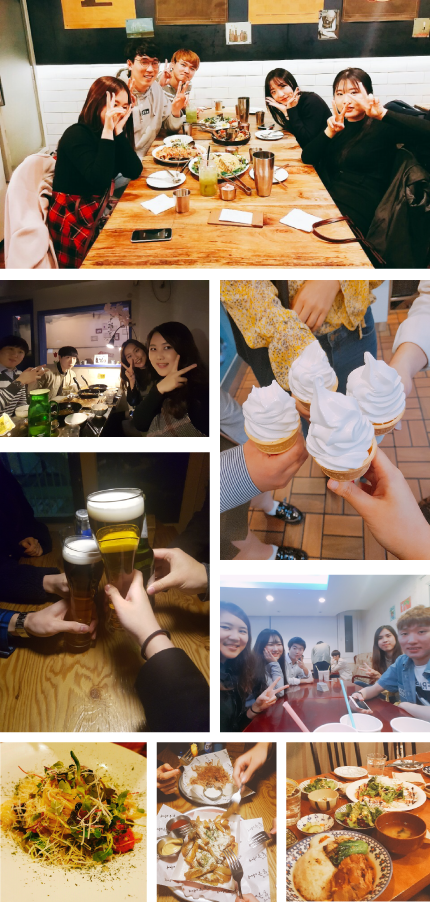
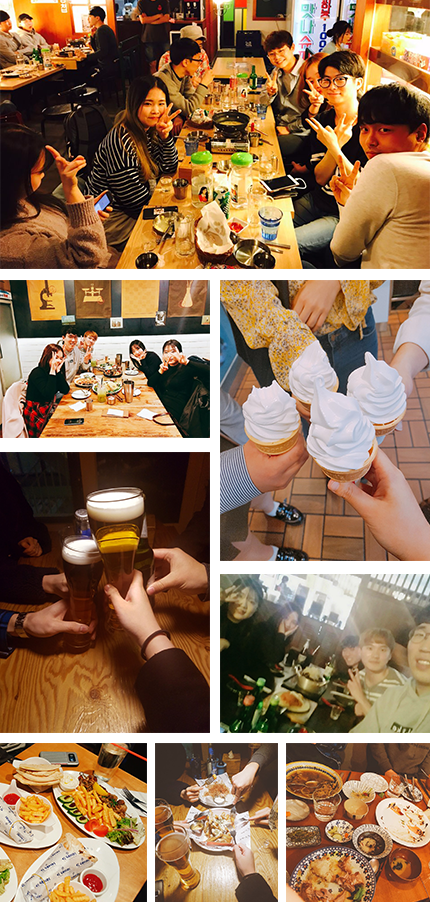
Change review to Q&A and review image

diff --git a/linku_frontend/linku/src/components/mainpage/Review.js b/linku_frontend/linku/src/components/mainpage/Review.js
@@ -6,16 +6,36 @@ import {DEFAULT_REQUEST_URL} from '../utils/RequestUrlSetting';
 const Review = () => {
     const datas = [
         {
-            title:"\"좋은 사람들과 함께하는 밥 모임\"",
-            content:"동아리를 정기적으로 활동하기에는 바쁘고, 여러가지 음식을 먹어보고 싶은데 친구들과 약속잡는게 힘든 사람을 위해 추천합니당!! 처음에 만나기 전에 걱정했는데 좋은사람들과 맛있는 식사 하고 와서 좋은시간이었어요ㅎㅎㅎ저희팀은 밥먹고 2차도 다녀왔어요! 이렇게 맛집도 가고 좋은 사람들도 더 알게 되서 즐거운 시간이었습니다 :) _ 최** 24 여"
+            title:"Q. 안녕하세요~ 링쿠에 참여해주셔서 감사합니다 :) 링쿠에 처음 참여하셨는데 혹시 어색하지는 않으셨나요?",
+            content:"A. 간단하게 자기소개를 톡에서 했는데, 다들 성격이 좀 맞는 것 같아서 전체분위기가 좋았어요. 메뉴를 정할때는 딱히 어색했는지 모르겠어요.  \
+            출신 지역이 세분이 대구에서 오셨고.. 한 분은 창원이고… 그런게 잘맞아서 재미있었습니다. (사투리로 대답중)"
         },
         {
-            title:"\"소중한 인연 만들고 싶으신 분들이라면 링쿠 강추합니다!!별 다섯개!\"",
-            content:"처음에 메뉴 고르는 데 있어서 단합이 안 돼서 우왕좌왕했지만ㅋㅋㅋㅋ 그 마저도 친해지는데 한 몫 했던 것 같아요. 새로운 인연을 만들고 싶어하는 분이나, 성격이 유쾌하고 다들 착하신 분들이 오는 모임이다 보니 친해지는 게 어렵지 않았어요. 소중한 인연 만들고 싶은신 분들이라면 링쿠강추합니다!! 별 다섯개! _ 김** 22 여"
+            title:"Q. 재미있는 분위기에 2차까지 다녀오셨다 들었는데 이야기 좀 들려주세요!",
+            content:"A. 이야기하다보니 밥은 다먹고 재미있어서 할 얘기는 더 있고 했는데 2차를 갈까 하던 중에 문자가 오더라구요.   \
+            타이밍이 딱 그 상황에 2차 추천 문자가 너무 자연스럽게 와서 다들 소오름~ 막 그랬어요.   \
+            문자를 보긴 했는데 그 주변을 잘아시는 분이 계셔서 그분께서 잘 아시는 곳으로 갔어요."
         },
         {
-            title:"\"재미없는 제 일상의 활력이 되었어요\"",
-            content:"링쿠와서 정말 즐겁게 잘 놀았어요! 다음에 다시 할 수 있으면 또 하고 싶을 정도로 즐거웠고 딱 피곤하지 않을 정도로 놀아서 심심한 주말 마무리 잘 한 것 같아요ㅎㅎ 성격이 적극적이지 않아서 부담스러운 자리일 수도 있었는데 모임장님이 대화 잘 이끌어가셔서 즐겁게 이야기하고 새로운 친구들 만나고 친해져서 좋았어요. 다음에도 계속 링쿠에서 다양한 사람들과 좋은 자리 가지고 싶어요!!! _ 윤** 23 남"
+            title:"Q. 2차가 끝난 뒤에는 다들 어떻게 하셨나요? 그대로 다들 집가고 헤어지셨나요 뒤에 뭔가 다른 활동이 있으셨나요?",
+            content:"A. 막차까지 소맥마시고 분위기가 재미있어서 다 끝나고 우리끼리 펜션가자고… 펜션잡고 있어요 (웃음)  \
+            애들이 웃기고 각자 에피소드가 많아서 다른 모임으로 이어질 것 같아요."
+        },
+        {
+            title: "Q. 모임 구성원에 대해서는 불편한 점 없으셨나요?",
+            content: "A. 대놓고 미팅 이성 뭐 이런게 아니라서 부담은 없고 알아서 비율이 서로 안부담스러울 정도로 어느정도 있으니까 좋았습니다. \
+            수동적인 참가자들도 있는데 적극적인 분들도 적절히 잘 섞여있으셔서 분위기가 좋았던것 같아요.   \
+            대놓고 너무 미팅으로 안밀어넣어서 심적으로 편했습니다. 막 타 서비스들처럼 ‘연인을 만들어가세요~’ 대놓고 이렇게 안해서 좋았어요. (웃음)"
+        },
+        {
+            title:"Q. 직접 경험하신 모임의 전반적인 분위기는 어떠셨나요?",
+            content:"A. 수동적이고 내성적인 분들도 다 열려있는 느낌인게 일단은 (보증금내고 다들) 나왔으니까 다 열려있는 듯한 기분이에요.  \
+            일단 부담이 없었고 재미있었어요. 후기들을 봤는데 동아리 학생회…같은 이런건 의도적인 친목 학생회땜에 솔직한 마음과는 다르게 ‘친해져야지’ 하는 부담감이 있는데  \
+            이런 모임은 아예 모르는 사람들이 만나고싶어서 그 의도로 온거니까 더 부담이 없어요. ‘안맞으면 담에 안보면 되지’ 같이.. 이런 생각으로 친하면 말이 잘통하니까 또 만나면 되니까요."
+        },
+        {
+            title:"Q. 참여해주시고 또 이렇게 인터뷰까지 응해주셔서 감사합니다. 다음에 또 오실거죠? (웃음)",
+            content:"A. 다음에 꼭 참여하고 싶은데 요즘 바쁜 일이 생겨서 이것만 끝나면요. 조만간 시간나면 신청할거에요. 또 좋은 모임 만들어지면 알려주세요!"
         },
     ];
 
@@ -39,7 +59,7 @@ const Review = () => {
 
     const mapToComponent = (datas) => {
         return datas.map( ({title,content}, i) => (
-            <Grid style={{marginTop: '50px', marginLeft: '2px', marginRight: '2px'}} textAlign="left" key={i}>
+            <Grid style={{marginTop: '10px', marginLeft: '2px', marginRight: '2px'}} textAlign="left" key={i}>
                 <Grid.Row textAlign="left" style={titleStyle}>
                     {title}
                 </Grid.Row>
@@ -55,11 +75,10 @@ const Review = () => {
                 <Grid.Column mobile={16} computer={8}>
 
                     <Header style={{fontSize: '22pt', color: '#5fa1d7', paddingTop: '30px'}}>
-                        링쿠 참여자들이 들려주는 리얼 생생후기
+                        링쿠 참여자가 들려주는 생생인터뷰<br />
+                        (이종현, 25, 남)
                     </Header>
-
                     {mapToComponent(datas)}
-
                 </Grid.Column>
                 <Grid.Column textAlign="center" mobile={16} computer={8}>
                     <Image src={DEFAULT_REQUEST_URL+'/media/review_image.png'} verticalAlign="middle"/>
